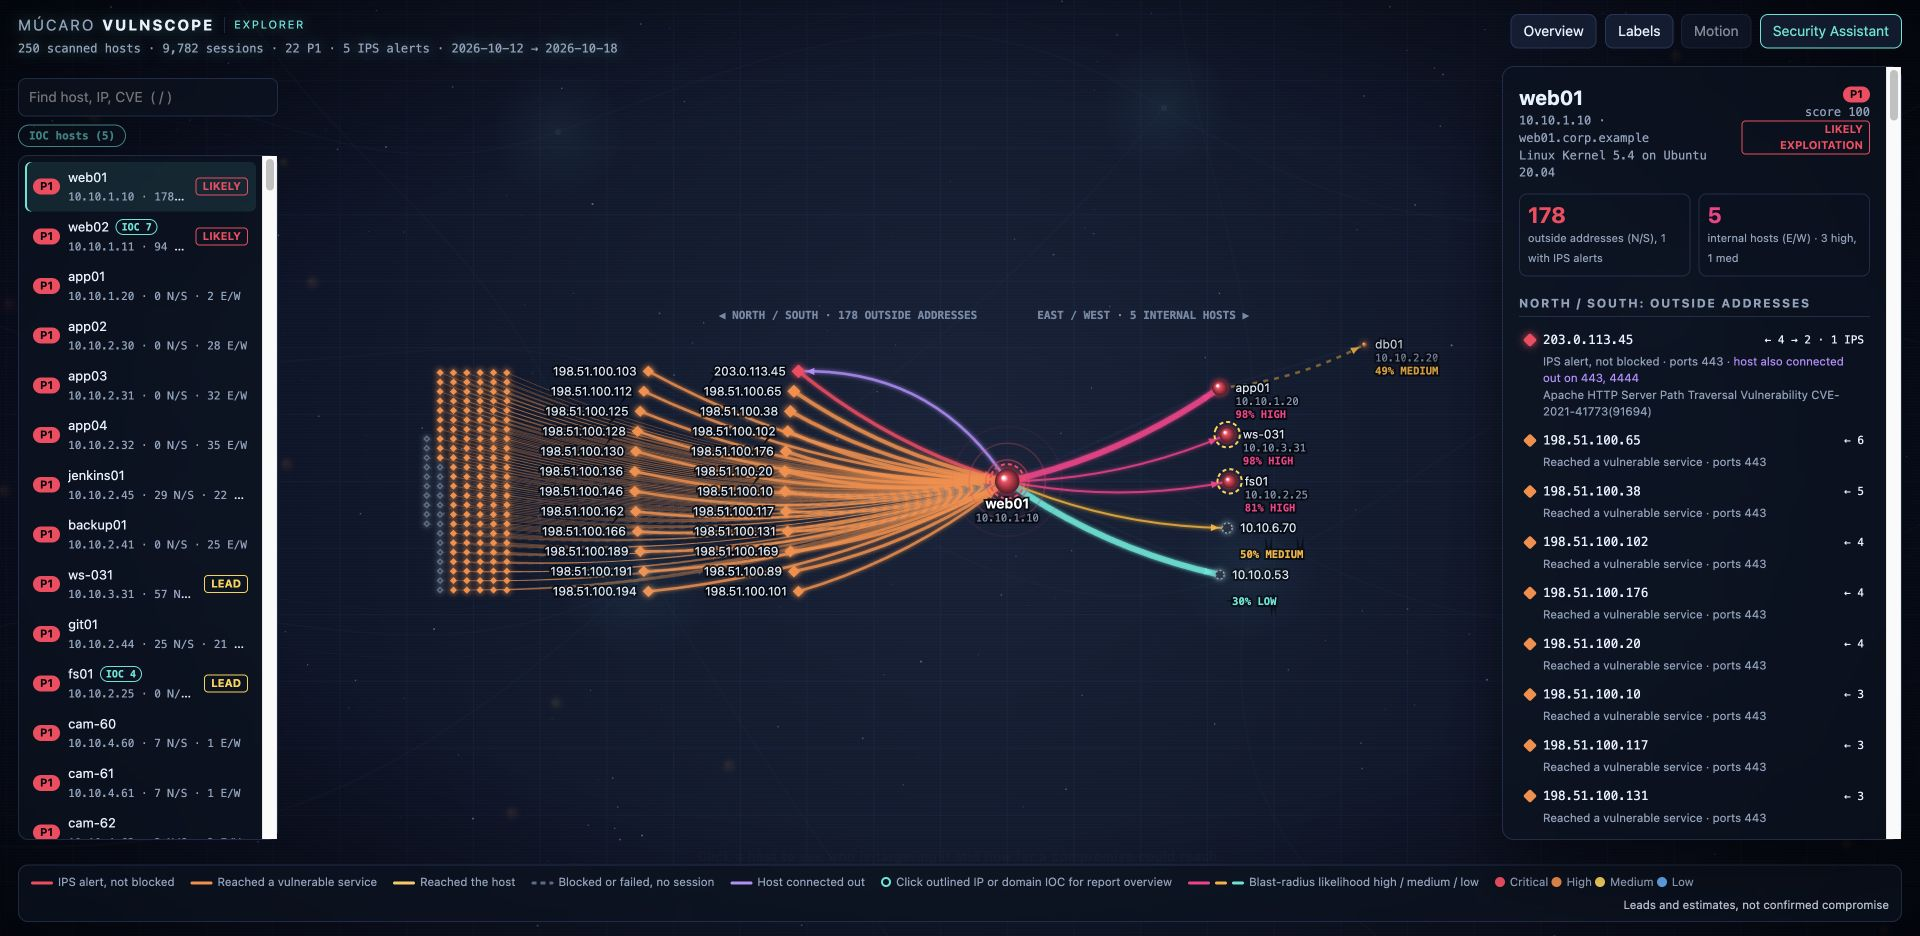
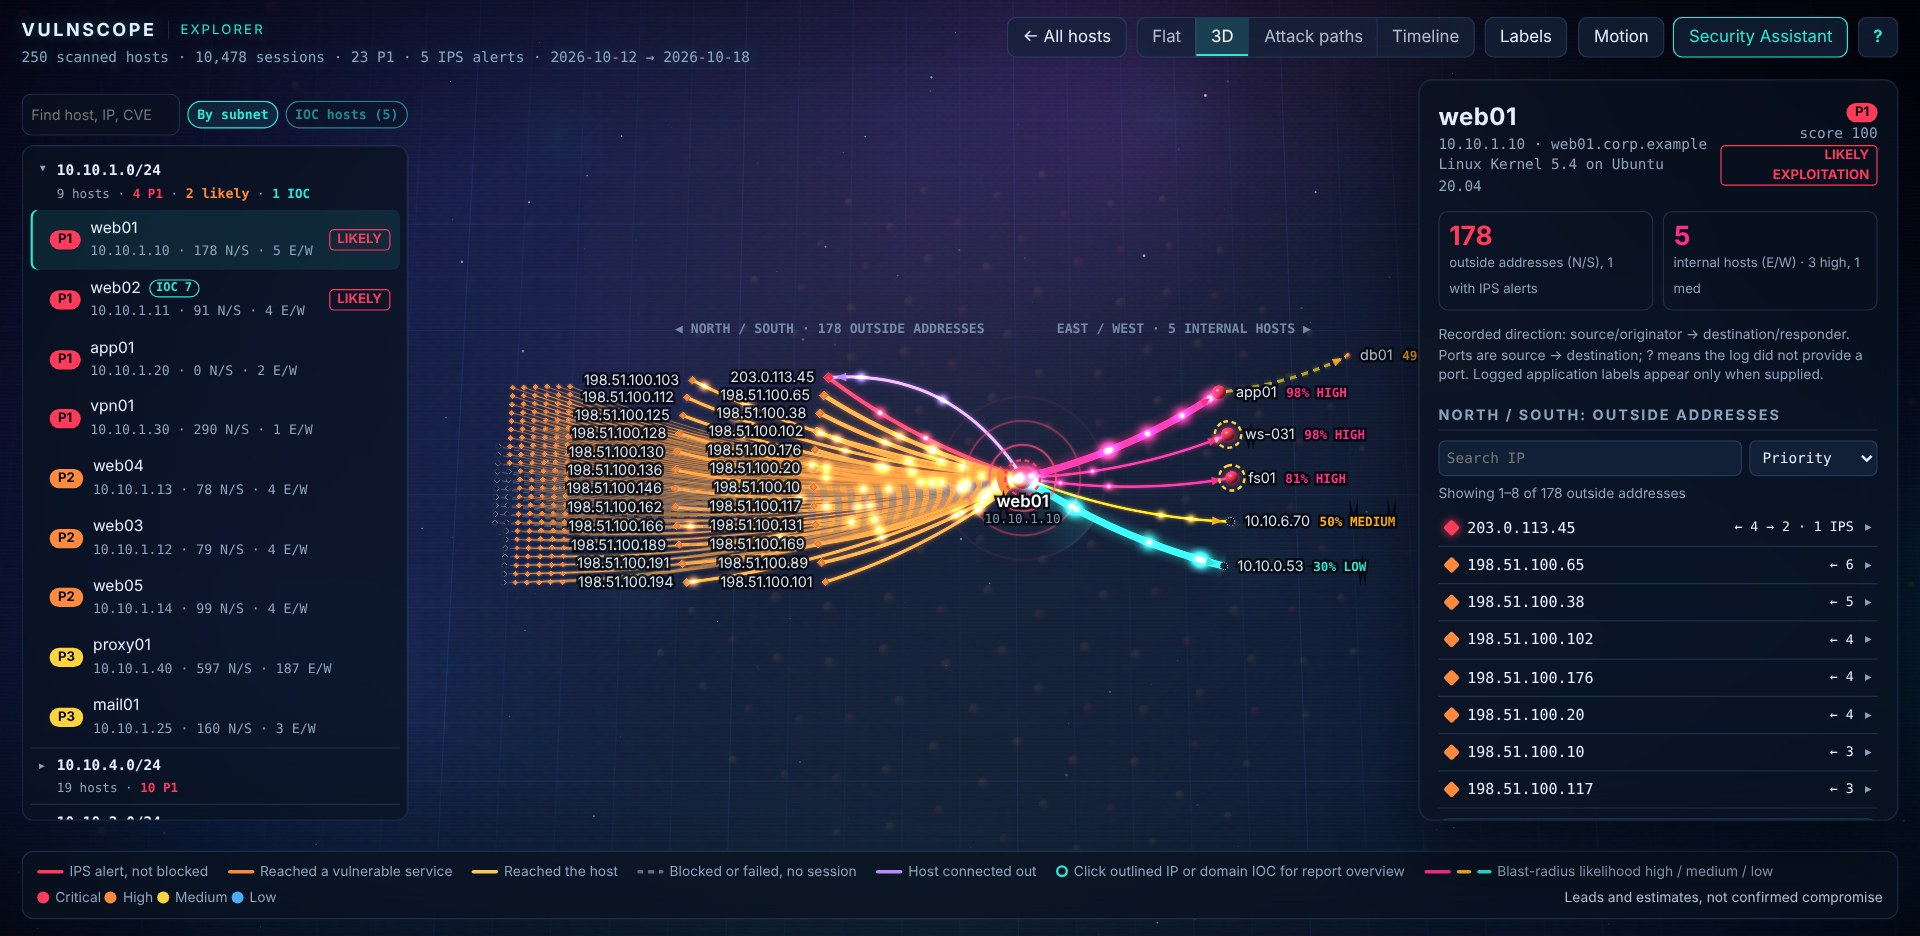
Screenshots: retake the Explorer, results and report shots
They still showed "Múcaro VulnScope" and older layouts. Retaken from
this version on the scan_and_telemetry sample (the example_output run):
Explorer overview (3D, the default view), web01 focused, the Security
Assistant answering "Why is web01 a P1?" with the built-in offline
assistant, the results page with and without the drawer, and the
executive (dark and light) and technical reports. The ARTEX 3D picture
at the top of the README is unchanged.

Claude-Session: https://claude.ai/code/session_01AboPcAn267ZfDvZ3mNqKGc

Changed region(s): [[0.0, 0.0, 1.0, 0.9915]]

diff --git a/screenshots/README.md b/screenshots/README.md
@@ -18,9 +18,9 @@ The ARTEX sample in 3D: subnets as platforms, hosts as pillars sized by risk, an
 
 ### Explorer overview
 
-<a href="explorer_current_overview.jpg"><img src="explorer_current_overview.jpg" alt="Current Explorer overview of the sample network" width="720"></a>
+<a href="explorer_current_overview.jpg"><img src="explorer_current_overview.jpg" alt="Explorer overview of the sample network in 3D" width="720"></a>
 
-The sample network is grouped by subnet, with a prioritized host list and observed connections.
+The Explorer opens in 3D: each subnet is a platform, hosts are pillars sized by risk, and the top outside addresses sit on the INTERNET arc. The host list on the left is grouped by subnet.
 
 ### Focused host
 

diff --git a/README.md b/README.md
@@ -144,7 +144,7 @@ Attack paths view of the likeliest ways in, and a Timeline of every flow. Click 
 it talked to inside and out. Press **?** in any view for help; the
 [Explorer guide](docs/EXPLORER.md) covers the controls.
 
-![Explorer overview of the synthetic 250-host example run, with the host list ranked by priority](screenshots/explorer_current_overview.jpg)
+![Explorer overview of the synthetic 250-host example run in 3D, with the host list grouped by subnet](screenshots/explorer_current_overview.jpg)
 
 For a guided walk-through, analyze the Gootloader sample and follow `hr-ws-07` in the Timeline.
 [Methods](METHODS.md) explains every score and estimate.
